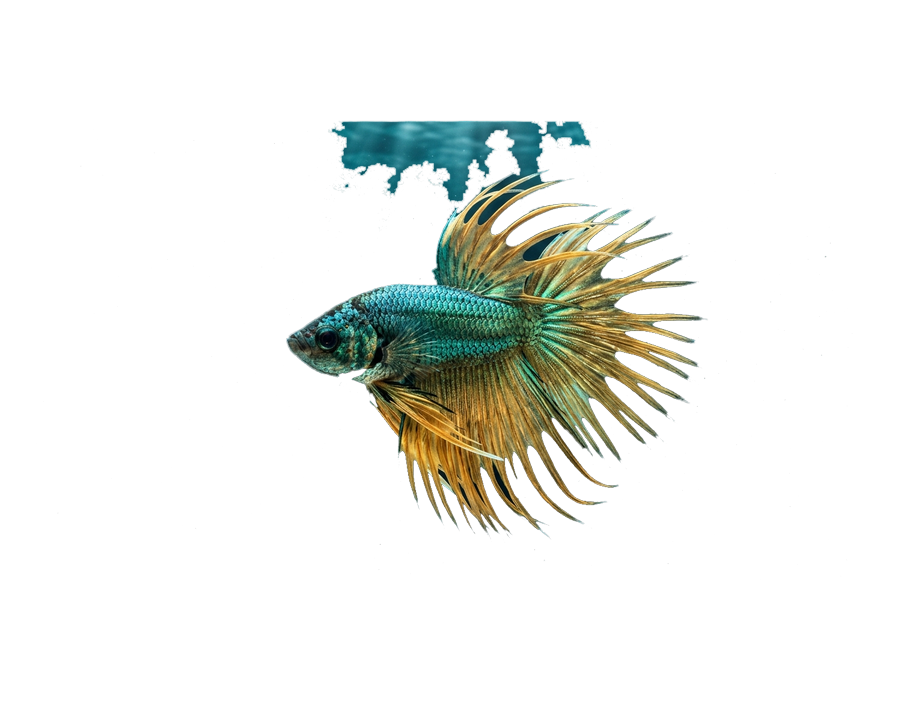
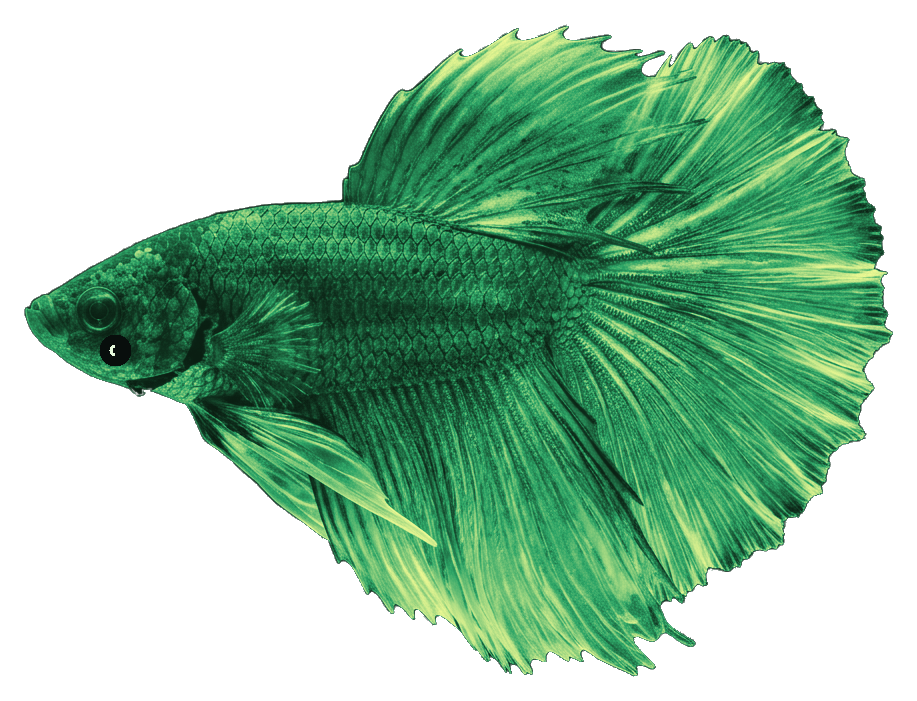
fix: resolve 3D fish texture alignment and unify spine displacement (fix detached fins & black capsule)

diff --git a/components/fish3d/buildBettaFish.ts b/components/fish3d/buildBettaFish.ts
@@ -8,7 +8,6 @@ export interface BettaPalette {
   emissive: string;
   emissiveIntensity: number;
   sheen: string;
-  attenuationColor: string;
   pointLight: string;
   iridescence: number;
   bumpScale: number;
@@ -21,12 +20,11 @@ export const BETTA_PALETTES: Record<BettaPalette["id"], BettaPalette> = {
     texturePath: "/images/betta-scarlet.png",
     tint: "#ffffff",
     emissive: "#2a0404",
-    emissiveIntensity: 0.16,
+    emissiveIntensity: 0.18,
     sheen: "#ff2a6d",
-    attenuationColor: "#ff1744",
     pointLight: "#f59e0b",
     iridescence: 0.78,
-    bumpScale: 0.034,
+    bumpScale: 0.026,
   },
   "02": {
     id: "02",
@@ -34,25 +32,23 @@ export const BETTA_PALETTES: Record<BettaPalette["id"], BettaPalette> = {
     texturePath: "/images/betta-fish.png",
     tint: "#ffffff",
     emissive: "#061838",
-    emissiveIntensity: 0.18,
+    emissiveIntensity: 0.2,
     sheen: "#38bdf8",
-    attenuationColor: "#0284c7",
     pointLight: "#60a5fa",
     iridescence: 0.72,
-    bumpScale: 0.026,
+    bumpScale: 0.022,
   },
   "03": {
     id: "03",
     name: "Golden Sun & Emerald",
     texturePath: "/images/betta-emerald.png",
     tint: "#ffffff",
-    emissive: "#1a2404",
-    emissiveIntensity: 0.18,
+    emissive: "#142404",
+    emissiveIntensity: 0.2,
     sheen: "#10b981",
-    attenuationColor: "#10b981",
     pointLight: "#10b981",
     iridescence: 0.76,
-    bumpScale: 0.028,
+    bumpScale: 0.024,
   },
 };
 
@@ -96,35 +92,18 @@ const SPINE_GLSL_HELPERS = /* glsl */ `
     float dist = max(0.0, 0.68 - zPos);
     float normD = dist / 2.65;
     float freq = 2.8 + uSwimSpeed * 5.2;
-    float amp = pow(normD, 1.45) * (0.048 + uSwimSpeed * 0.14);
-    float swimWave = sin(uTime * freq - dist * 2.5) * amp;
+    float amp = pow(normD, 1.48) * (0.046 + uSwimSpeed * 0.14);
+    float swimWave = sin(uTime * freq - dist * 2.55) * amp;
     float turnCurve = uTurnBend * pow(normD, 1.55) * 0.46;
     return swimWave + turnCurve;
   }
 
-  float bettaFinWave(float zPos, float yPos) {
-    float dist = max(0.0, 0.68 - zPos);
-    float normD = dist / 2.65;
-    float freq = 2.8 + uSwimSpeed * 5.2;
-    float amp = pow(normD, 1.4) * (0.052 + uSwimSpeed * 0.15);
-
-    // Primary swimming stroke
-    float primary = sin(uTime * freq - dist * 2.45) * amp;
-    // Traveling harmonic wave along delicate gossamer fin rays
-    float harmonic = sin(uTime * (freq * 1.42) - dist * 4.3 + yPos * 1.2) * (amp * 0.38);
-    // Micro-flutter on translucent silk trailing edges
-    float micro = sin(uTime * 8.2 - dist * 7.8 + yPos * 2.8) * (pow(normD, 2.0) * 0.024);
-    float turnCurve = uTurnBend * pow(normD, 1.55) * 0.46;
-
-    return primary + harmonic + micro + turnCurve;
-  }
-
-  float bettaFinVerticalFlutter(float zPos, float yPos) {
-    float dist = max(0.0, 0.68 - zPos);
-    float normD = dist / 2.65;
-    // Vertical silk billow across dorsal fin canopy and caudal veil
-    float billow = sin(uTime * 3.6 - dist * 3.2 + yPos * 2.2) * (pow(normD, 1.6) * 0.025);
-    return billow;
+  float bettaFinRipple(float zPos, float yPos) {
+    // Only ripple behind the body attachment line (zPos < 0.45) so fins NEVER detach from spine
+    float dist = max(0.0, 0.45 - zPos);
+    float normD = dist / 2.4;
+    float ripple = sin(uTime * 5.8 - dist * 4.2 + yPos * 2.2) * pow(normD, 1.7) * 0.015;
+    return ripple;
   }
 `;
 
@@ -170,11 +149,11 @@ function createLuminanceBumpTexture(
   const imageData = ctx.getImageData(0, 0, w, h);
   const data = imageData.data;
 
-  // Convert scale & fin-ray luminance into tactile organic micro-relief
+  // Convert scale & fin-ray luminance into subtle organic micro-relief
   for (let i = 0; i < data.length; i += 4) {
     const a = data[i + 3] / 255;
-    const luma = 0.35 * data[i] + 0.5 * data[i + 1] + 0.15 * data[i + 2];
-    const relief = THREE.MathUtils.clamp((luma * 1.35 - 12) * a, 0, 255);
+    const luma = 0.299 * data[i] + 0.587 * data[i + 1] + 0.114 * data[i + 2];
+    const relief = THREE.MathUtils.clamp((luma * 1.25 - 18) * a, 0, 255);
     data[i] = relief;
     data[i + 1] = relief;
     data[i + 2] = relief;
@@ -353,9 +332,10 @@ function createFinShellGeometry(side: 1 | -1): THREE.BufferGeometry {
   return geo;
 }
 
-function attachBodySpineShader(
+function attachSpineShader(
   material: THREE.MeshPhysicalMaterial,
   uniforms: BettaRig["uniforms"],
+  isFin: boolean,
   cacheKey: string
 ): void {
   material.customProgramCacheKey = () => cacheKey;
@@ -364,34 +344,19 @@ function attachBodySpineShader(
     shader.uniforms.uSwimSpeed = uniforms.uSwimSpeed;
     shader.uniforms.uTurnBend = uniforms.uTurnBend;
 
-    shader.vertexShader = `${SPINE_GLSL_HELPERS}\n${shader.vertexShader}`.replace(
-      "#include <begin_vertex>",
+    const displacement = isFin
+      ? `
+      #include <begin_vertex>
+      transformed.x += bettaSpineWave(transformed.z) + bettaFinRipple(transformed.z, transformed.y);
       `
+      : `
       #include <begin_vertex>
       transformed.x += bettaSpineWave(transformed.z);
-      `
-    );
-  };
-}
-
-function attachFinSpineShader(
-  material: THREE.MeshPhysicalMaterial,
-  uniforms: BettaRig["uniforms"],
-  cacheKey: string
-): void {
-  material.customProgramCacheKey = () => cacheKey;
-  material.onBeforeCompile = (shader) => {
-    shader.uniforms.uTime = uniforms.uTime;
-    shader.uniforms.uSwimSpeed = uniforms.uSwimSpeed;
-    shader.uniforms.uTurnBend = uniforms.uTurnBend;
+      `;
 
     shader.vertexShader = `${SPINE_GLSL_HELPERS}\n${shader.vertexShader}`.replace(
       "#include <begin_vertex>",
-      `
-      #include <begin_vertex>
-      transformed.x += bettaFinWave(transformed.z, transformed.y);
-      transformed.y += bettaFinVerticalFlutter(transformed.z, transformed.y);
-      `
+      displacement
     );
   };
 }
@@ -453,11 +418,6 @@ export function buildBettaFish(maxAnisotropy = 8): BettaRig {
     return entry;
   };
 
-  // Preload all 3 specimen textures immediately
-  loadEntry(BETTA_PALETTES["01"].texturePath);
-  loadEntry(BETTA_PALETTES["02"].texturePath);
-  loadEntry(BETTA_PALETTES["03"].texturePath);
-
   let currentPalette = initialPalette;
   const initialEntry = loadEntry(initialPalette.texturePath);
 
@@ -469,14 +429,14 @@ export function buildBettaFish(maxAnisotropy = 8): BettaRig {
     emissiveIntensity: initialPalette.emissiveIntensity,
     transparent: false,
     depthWrite: true,
-    roughness: 0.22,
+    roughness: 0.26,
     metalness: 0.08,
-    clearcoat: 0.88,
+    clearcoat: 0.85,
     clearcoatRoughness: 0.12,
     iridescence: initialPalette.iridescence,
     iridescenceIOR: 1.38,
     iridescenceThicknessRange: [120, 360],
-    sheen: 0.7,
+    sheen: 0.75,
     sheenRoughness: 0.28,
     sheenColor: new THREE.Color(initialPalette.sheen),
     side: THREE.FrontSide,
@@ -488,28 +448,24 @@ export function buildBettaFish(maxAnisotropy = 8): BettaRig {
     emissiveMap: initialEntry.map,
     emissive: new THREE.Color(initialPalette.emissive),
     emissiveIntensity: initialPalette.emissiveIntensity * 1.15,
-    alphaTest: 0.04,
+    alphaTest: 0.06,
     transparent: true,
     depthWrite: true,
-    roughness: 0.25,
+    roughness: 0.32,
     metalness: 0.04,
-    clearcoat: 0.68,
-    clearcoatRoughness: 0.16,
+    clearcoat: 0.65,
+    clearcoatRoughness: 0.18,
     iridescence: initialPalette.iridescence * 0.95,
     iridescenceIOR: 1.35,
     iridescenceThicknessRange: [140, 380],
     sheen: 0.85,
-    sheenRoughness: 0.3,
+    sheenRoughness: 0.32,
     sheenColor: new THREE.Color(initialPalette.sheen),
-    transmission: 0.24,
-    thickness: 0.06,
-    attenuationColor: new THREE.Color(initialPalette.attenuationColor),
-    attenuationDistance: 0.45,
-    side: THREE.DoubleSide,
+    side: THREE.FrontSide,
   });
 
-  attachBodySpineShader(bodyMaterial, uniforms, "betta-body-wave-v2");
-  attachFinSpineShader(finMaterial, uniforms, "betta-fin-wave-v2");
+  attachSpineShader(bodyMaterial, uniforms, false, "betta-body-wave-v3");
+  attachSpineShader(finMaterial, uniforms, true, "betta-fin-wave-v3");
 
   const bodyGeo = createClosedBodyGeometry();
   const rightFinGeo = createFinShellGeometry(1);
@@ -529,14 +485,20 @@ export function buildBettaFish(maxAnisotropy = 8): BettaRig {
     bodyMaterial.emissiveMap = entry.map;
     bodyMaterial.bumpMap = entry.bump;
     bodyMaterial.bumpScale = pal.bumpScale;
+    bodyMaterial.color.set(pal.tint);
+    bodyMaterial.emissive.set(pal.emissive);
+    bodyMaterial.emissiveIntensity = pal.emissiveIntensity;
     bodyMaterial.iridescence = pal.iridescence;
 
     finMaterial.map = entry.map;
     finMaterial.emissiveMap = entry.map;
     finMaterial.bumpMap = entry.bump;
     finMaterial.bumpScale = pal.bumpScale * 0.7;
+    finMaterial.color.set(pal.tint);
+    finMaterial.emissive.set(pal.emissive);
+    finMaterial.emissiveIntensity = pal.emissiveIntensity * 1.15;
     finMaterial.iridescence = pal.iridescence * 0.95;
-    finMaterial.attenuationColor.set(pal.attenuationColor);
+    finMaterial.sheenColor.set(pal.sheen);
 
     bodyMaterial.needsUpdate = true;
     finMaterial.needsUpdate = true;
